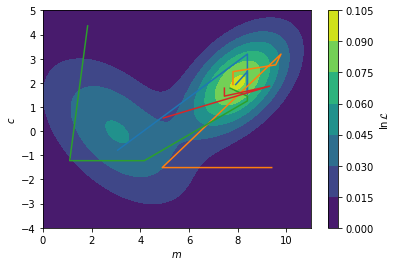
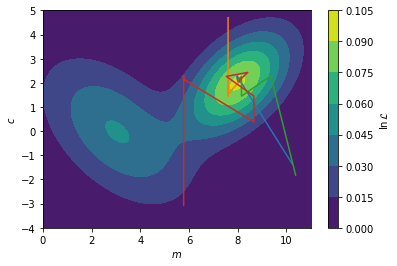
deploy: 67f193cb98d82815b8bbf6e6ed65cf09af53e6c0

diff --git a/searchindex.js b/searchindex.js
@@ -1,1 +1,1 @@
-Search.setIndex({docnames:["1_the_fourier_transform/an_introduction_to_fourier_transforms","1_the_fourier_transform/fourier_transforms_for_reflectometry_analysis","2_model_dependent_analysis/what_is_model_dependent_analysis","3_reflectometry_slab_models/how_we_calculate_the_reflectivity_of_a_slab_model","3_reflectometry_slab_models/roughness_and_microslicing","3_reflectometry_slab_models/the_slab_model","4_model_reparameterisation/a_case_for_model_reparameterisation","4_model_reparameterisation/niti_multilayer_example","4_model_reparameterisation/phospholipid_monolayer_example","5_fitting_processes_and_problems/how_do_we_maximise_the_likelihood","5_fitting_processes_and_problems/how_to_leverage_our_prior_knowledge","5_fitting_processes_and_problems/what_is_the_likelihood","intro"],envversion:{"sphinx.domains.c":2,"sphinx.domains.changeset":1,"sphinx.domains.citation":1,"sphinx.domains.cpp":4,"sphinx.domains.index":1,"sphinx.domains.javascript":2,"sphinx.domains.math":2,"sphinx.domains.python":3,"sphinx.domains.rst":2,"sphinx.domains.std":2,"sphinx.ext.intersphinx":1,"sphinxcontrib.bibtex":9,sphinx:56},filenames:["1_the_fourier_transform/an_introduction_to_fourier_transforms.md","1_the_fourier_transform/fourier_transforms_for_reflectometry_analysis.ipynb","2_model_dependent_analysis/what_is_model_dependent_analysis.md","3_reflectometry_slab_models/how_we_calculate_the_reflectivity_of_a_slab_model.ipynb","3_reflectometry_slab_models/roughness_and_microslicing.ipynb","3_reflectometry_slab_models/the_slab_model.md","4_model_reparameterisation/a_case_for_model_reparameterisation.md","4_model_reparameterisation/niti_multilayer_example.ipynb","4_model_reparameterisation/phospholipid_monolayer_example.ipynb","5_fitting_processes_and_problems/how_do_we_maximise_the_likelihood.ipynb","5_fitting_processes_and_problems/how_to_leverage_our_prior_knowledge.md","5_fitting_processes_and_problems/what_is_the_likelihood.ipynb","intro.md"],objects:{},objnames:{},objtypes:{},terms:{"0":[1,3,4,8,9,10,11,12],"000":9,"00039":12,"001":[1,3,4],"00260":12,"003":12,"0053":12,"007":12,"012":12,"01980001503076100":12,"02":12,"022":[7,12],"02614057":9,"0294":12,"03":12,"033":9,"04493869":9,"0469":12,"04893":12,"0496667614679125":11,"06":[4,7],"07":12,"074":1,"074e":[1,4],"078":12,"092":9,"0j":[3,4],"1":[0,1,3,4,7,8,9,10,11,12],"10":[1,4,7,9,11,12],"1000":[1,3,8,9,11],"1008202821328":12,"1016":12,"1023":12,"1039":12,"104":1,"1051":12,"107":12,"108":12,"1098":12,"11":[9,12],"1103":12,"1107":12,"1119":12,"1198":12,"12":[4,11,12],"1204":12,"14":4,"15":[8,12],"155":12,"16":[1,3],"167":9,"17":4,"1761":12,"1763":12,"18":[8,12],"186":1,"186e":[1,3,4],"19":[8,9,12],"193":12,"1948":12,"194812030504":12,"1954":12,"197":12,"1980":12,"1997":12,"1998":12,"1999":12,"1e":4,"1f77b4":11,"1j":[1,3],"2":[1,2,3,4,7,9,11,12],"20":[1,3,4],"200":[1,3,4,12],"2005":12,"2006":12,"2007":12,"2010":12,"2011":12,"2018":12,"2019":12,"2021":12,"20384101638663543":11,"204":12,"21":12,"23":7,"248":12,"25e":4,"265":8,"265n_c":8,"2827":12,"2848":12,"297":12,"2k_nk_":4,"3":[1,3,4,5,7,9,11,12],"300":[1,3],"311":12,"3254017":12,"33":12,"338":12,"339":12,"341":12,"342":12,"357":12,"359":12,"369":12,"370":12,"3blue1brown":0,"3e":7,"4":[1,3,4,5,7,9,11,12],"40":12,"41":12,"417":7,"417e":7,"418":12,"42":[11,12],"4245e":4,"434":12,"438":7,"44":12,"4526":12,"45667815":9,"47":[7,12],"471":12,"47913284":9,"5":[1,3,4,8,9,12],"50":4,"500":[1,3,4],"504":12,"51":7,"52":12,"520":12,"53":12,"531":12,"54":12,"58":7,"59":12,"596":12,"5q":3,"6":[1,3,4,7,9,12],"6133":12,"6141":12,"648":12,"649":12,"69":7,"7":[4,8,9,11],"761":12,"779":12,"78":12,"8":[4,7,9,11],"856832":12,"867":7,"87":12,"871":1,"871e":[3,4],"9":[4,7,12],"90":8,"908":7,"91":7,"922868":12,"95":12,"951e":7,"978":12,"98":[1,12],"99":12,"9957561":9,"99615666":9,"99998503":9,"99999727":9,"\u00e0":12,"\u00e5":[0,1,3,4,7,8],"\u00e8":12,"\u00e9":12,"\u00f6":12,"\u00fc":12,"abel\u00e8":[3,4],"abstract":7,"br\u00f6hl":12,"case":[5,10],"do":[1,2,12],"float":[7,9,11],"function":[1,2,3,4,5,8,9,11],"import":[1,2,3,4,5,6,7,8,9,11],"int":1,"new":12,"return":[1,3,7,9,11],"switch":12,"true":[6,9],"try":9,"while":[6,7],A:[1,2,4,5,7,8,9,12],As:[5,8],Be:9,By:2,For:[1,7,8,11,12],If:[1,2,9,10,11,12],In:[1,5,6,8,9,10,12],It:[2,4,5,8,9,10,12],No:4,One:8,The:[0,2,3,4,6,7,8,9,11,12],Then:[1,2,3],There:[4,9],These:[1,4,9],To:[1,4,6],_:[1,3],ab:[1,3],abel:[3,4,12],abeles48:[3,12],abeles_with_rough:4,abl:4,about:[6,8,9,10],abov:[1,2,4,7,9,11],abscissa:11,absolut:9,academ:12,accept:[1,10],account:[4,12],accur:[2,4,6],acf2:1,acf:1,achiev:[4,8,10],across:11,act:8,action:1,ad:8,adapt:4,add:8,add_patch:4,addit:[1,6,8],addition:[2,3,4,6,7,9],admittedli:4,advanc:12,advis:12,affect:8,after:[1,9,12],again:[1,4],against:5,agnet:12,agre:11,agreement:[2,9,11],aid:3,aim:[9,11,12],air:[1,4,8,12],al:6,algorithm:[2,9,10,12],all:[0,3,9,10],allow:[6,7,8,9],alon:9,alonso:12,alpha:11,alreadi:[2,10,12],also:[4,7,8],although:1,am:12,amphiphil:8,an:[2,4,5,6,9,10,12],analog:[0,9,11],analys:[9,12],analysi:[3,5,7,8,9,10,11,12],analyt:2,andbook:12,andrew:12,angstrom:7,ani:[4,11,12],ann:12,anomagnet:12,anoth:1,anphi:12,apm:8,append:9,appl:12,appli:[1,2,4,6,8,9,12],applic:[3,9,12],approach:[1,2,3,4,5,6,7,8,9,12],approx:1,approxim:[3,12],ar:[0,1,2,3,4,5,6,7,8,9,10,11,12],area:6,argmax:9,argsort:9,arnold:12,around:4,arrai:[1,3,4,7,9],artefact:4,artifici:12,assembl:8,assess:9,assign:7,associ:[10,11,12],assum:[8,12],assumpt:[2,6,7,8],ateri:12,atom:[7,8],attach:8,attent:12,autocorrel:1,avail:1,avogadro:7,awar:[2,9],ax:[4,11],axhlin:1,b:[3,7,12],b_:[3,7],b_i:[7,8],b_ni:7,b_ti:7,back:9,bar:[3,11],base:[2,3,7],basic:12,bay:[10,12],bayesian:[10,12],becom:[1,9],been:[1,3,4,7,8,12],befor:[0,4,5,12],begin:3,being:[2,4,11],belief:10,believ:2,below:[0,1,3,4,5,7,8,9,11],benefit:8,berk:12,best:[8,9,11],beta:[1,3,4,7,8],beta_0:3,beta_1:5,beta_2:5,beta_:[1,7,8],beta_i:8,beta_microsl:4,beta_n:3,beta_ni:7,beta_ti:7,between:[0,1,2,3,4,5,9,11],bia:2,bias:10,bigg:[1,11],biolog:[9,12],bj:12,bjorck11:[9,12],black:[1,9],block:12,blue:[1,9,11],bmatrix:3,book:[1,10,12],born:[3,12],borrow:1,both:8,bound:[7,10],bowen:12,bp63:[10,12],bring:3,broad:[2,11],broadli:2,brought:3,bsd:3,c9cp00203k:12,c:[1,9,11,12],calcul:[1,2,4,5,8,11],call:5,callback:9,campbel:12,can:[1,2,3,4,5,6,7,8,9,10,11,12],cannot:[4,11],caract:12,carbon:8,carefulli:9,caruana:12,cation:12,catter:12,caus:8,caution:6,cdot:7,centr:12,chanc:12,chang:[1,2,9],character:12,characterist:3,characteristic_matric:3,chem:12,chemic:[5,6,12],chemistri:2,chi:11,circ:8,clark:12,clear:[2,4,5,9],clearer:3,clearli:4,click:12,clifton:12,close:3,cm:7,coci:12,code:[4,7,9,12],collect:12,colloid:12,color:11,colorbar:9,comfort:12,common:[2,4,5,7,8,9],commonli:[6,9,11],companion:12,compar:[2,3,4,6,11],comparison:5,complementari:6,complet:[2,9],complex:[3,8,9,12],composit:8,comput:12,computation:9,concept:6,conclus:9,condens:12,conj:3,conjug:3,consid:[1,2,3,4,5,7,8,9,10,11],consider:9,consist:[5,7,8],constant:[2,7,10],constrain:[7,8],constraint:[6,8],construct:[2,3,5,10],consult:8,content:12,context:2,continu:12,contourf:9,contrast:9,convers:6,could:[5,10],coupl:9,cours:12,cover:[2,12],creat:4,croce:[4,12],crystallogr:12,crystallographi:1,css:[8,12],cubitt:12,curr:12,current:[9,12],current_theta:9,curve_fit:11,d:[1,3,4,11,12],d_1:5,d_2:5,d_h:8,d_i:8,d_microsl:4,d_n:3,d_t:8,dan:12,data:[1,2,3,4,5,6,7,8,9,10,11,12],databas:7,datapoint:11,dataset:[9,11],de:12,decomposit:0,deep:12,def:[1,3,7,9,11],defin:[1,2,5,6,7,8,11],deg2rad:8,delta:1,denot:1,densiti:[1,3,4,5,6,8],depend:[5,7,8,9,10,11,12],deposit:7,deriv:[1,5],descent:9,describ:[2,3,4,5,6,9,10,11],descript:[1,6,8],design:10,desir:[7,9],deslatt:12,destruct:5,detail:[0,1,2],detector:5,determin:[3,9,12],develop:12,deviat:[3,11],devind:[1,10,12],diatom:2,diff:[1,3],differ:[1,4,5],differenti:[9,10,12],differential_evolut:9,difficult:8,dimens:[1,5],dimension:9,dioxid:[1,4],directli:7,discoveri:9,discuss:[1,4,5,11],disposit:7,distribut:[9,11],divid:1,docstr:3,doctrin:12,doe:[2,3,4],doi:12,domain:0,done:11,dot:11,downhil:9,dppc:8,dr:[1,10,12],draw:[9,12],dtype:3,du:12,due:[1,2],dura:12,dvanc:12,e:[5,12],each:[3,4,5,7,8],easili:[7,9],edgecolor:4,edit:12,editor:12,edler:12,effect:[1,4,9,12],effici:12,eflect:12,elast:0,element:[7,11],elementari:[1,12],eleph:12,els:2,enabl:[4,10],encount:[2,9],end:3,enrol:12,ensur:[2,9],entir:2,enumer:11,enzym:2,equat:[1,2],error:[4,11],errorbar:11,essai:12,essenti:0,estim:1,et:6,european:12,eutect:12,eutron:12,evalu:[7,12],eventu:9,ever:2,everi:8,evolut:[9,10,12],evolutionari:9,exampl:[2,4,5,6,9,10],exhaust:12,exist:[4,9],exp:[1,3,4],expect:[2,10],experi:[2,12],experiment:[2,5,6,11],explicitli:1,exploit:12,extend:8,extrem:8,f:[3,7,12],fact:10,factor:[3,11],fair:2,fals:4,familiar:[1,2,6],fantast:1,far:11,fashion:9,feder:12,feed:9,feedback:12,feel:12,fernandez:12,ff7f0e:11,field:[8,12],fig:[2,4,5,8,11],figsiz:[4,11],figur:[1,2,4,9,11,12],file:12,fill:4,fill_between:11,find:[1,2,4,7,8,9,10,11],first:[1,2,3,5,6,7,9,11,12],fit:[2,6,7,9,11],fitzsimmon:12,flat:[1,4],flavour:[6,9],flexion:12,flow:2,fm05:12,fm:7,focus:0,follow:[1,7,8,9,11,12],forc:2,form:[1,9],formal:[3,4],format:12,found:[1,3,4,7,8,9,10],four:12,fourier:[2,3,5,12],fourier_transform:1,frac:[1,3,4,7,8,10,11],fraction:8,free:[6,9,12],frensel:3,fresnel:[3,4],fresnel_reflect:3,from:[0,1,2,3,4,5,6,7,8,9,11,12],full:1,fulli:8,fundament:[0,5],further:[9,10],g:[7,12],garbag:2,gcm:7,gener:[2,9,12],genet:12,geometri:5,gerelli:12,get:[2,11,12],give:[0,3,6,12],given:[4,5,8,9,11],glob:12,global:[9,12],go:[3,5,9],good:11,gradient:11,gradient_callback:9,gradient_v:9,graphic:7,great:[0,10],greater:1,group:8,guess:9,guntherodt:12,h:12,ha:[1,4,7,8,12],hall:12,hand:4,hard:7,harder:9,have:[1,2,3,8,9,10,11,12],head:8,heavili:[8,11,12],heavisid:1,heinrich:12,helper:[4,9],henc:[0,11],henomena:12,here:[3,11,12],heurist:12,higher:8,hoogerheid:12,hopefulli:5,horizont:1,how:[2,5,6,8,11,12],howard:12,howev:[1,2,4,5,6,7,9,11],hydrocarbon:8,hydrophil:8,hydrophob:[8,12],i:[1,3,5,7,8,11],identifi:4,ignor:4,impact:[0,4],implement:[3,4,9],impli:4,impos:10,improv:2,inaccur:4,incid:[1,5],includ:[0,2,3,7,8,12],incorrectli:4,increas:[4,9,11],independ:2,indic:[1,9,11],individu:[3,7],induc:12,influenc:4,inform:[1,6,12],infti:1,inher:2,initi:9,input:3,insect:9,insight:[2,12],insolubl:8,inspir:9,instead:[1,3,7,9,10],instrument:8,integr:[10,12],intens:[1,9],interact:[0,1,3,4,7,8,9,11,12],intercal:8,intercept:11,interest:[0,2,12],interfac:[3,4,5,8,12],interfer:5,interpret:[2,4],interrog:[4,9],introduc:[2,4,5,6,8,10,12],introduct:10,inv_fourier_transform:1,invers:[1,12],investig:[1,2,6,9],involv:[5,7],isbn:12,isotop:9,issu:1,its:7,j:12,jackson:12,jci:12,john:[6,12],jpsc21:[6,12],jupyt:12,jupyterhub:12,k0:3,k:[1,3,9,12],k_0:3,k_:[3,4],k_n:[3,4],karin:12,khairi:12,kienzl:12,kinet:2,kn:3,knowledg:12,known:[2,4,8],kronm:12,l:[9,10,11,12],la:12,label:[1,3,4,9],lak19:12,lakei:12,languag:[6,12],larg:[1,12],later:[5,7],latter:6,launch:12,lawrenc:12,layer:[3,4,5,7,8],le:12,lead:[0,2,4,5],leak:4,learn:[1,3,4,7,8,9,11,12],lectromagn:12,lectur:12,left:4,legend:[1,3,4],length:[1,3,4,5,6,8],less:5,let:[0,1,10],licens:3,light:12,like:[2,4,8,10],likelihood:10,limit:[1,2,7,8],line:[1,9,11],linearli:11,link:12,linspac:[1,3,4,8,9,11],lipid:12,liquid:12,list:12,literatur:8,ller:12,ln:[9,11],loadtxt:11,local:9,log:[1,3,4,11,12],logic:[2,10,12],logpdf:9,lond:12,look:[0,1,2,3,6,9,10,11],loss:1,lost:5,lovel:12,low:3,lr99:[2,12],ls:11,lw:11,m:[3,9,11,12],m_:[3,7],m_w:7,m_w_ni:7,m_w_ti:7,made:[2,6,7],magnet:12,magnitud:1,mai:[1,2,6,7,11,12],majkrzak:12,major:[7,11],make:[2,3,6,8,12],manag:12,mani:9,marker:11,mass:6,match:1,materi:[1,3,4,5,7,12],mathcal:[9,10,11],mathemat:12,mathit:[1,3],mathrm:[1,3,7,8,11],matnei:12,matplotlib:[1,3,4,8,9,11],matric:3,matrix:[3,4],matter:[7,12],matyszewska:12,max:[1,3,11],maxima:9,maximilian:12,maximis:[10,11],maximum:[8,9,10,11],mayer:12,mbd:[1,12],mccluskei:12,mead:9,mean:[1,4,7,8,9,11],measur:[0,1,2,5,6,10,11],media:3,member:9,membran:12,menten:2,mention:8,merit:2,meshgrid:9,method:[3,4,12],methodolog:[1,2,4,9,12],metric:[9,11],micel:12,micha:2,might:2,milieux:12,minim:9,minimis:[9,11],minimum:[9,10],minut:12,mkh10:[2,12],modal:9,model:[1,4,7,8,9,10,11,12],modifi:[3,4,12],modul:[4,9],mol:7,molecul:[2,6],molecular:7,monolay:12,more:[0,2,4,6,7,8,9,10,11],most:[3,4,5,9],move:9,movement:12,msfe:[8,12],much:[3,5],multi:9,multivariate_norm:9,must:[2,4,8],mv1:9,mv2:9,mv:9,n:[3,4,7,8,11,12],n_:[3,11],n_a:7,n_c:8,nanostructur:12,natur:[6,8],navig:12,nazaruk:12,ndarrai:[1,3,7,9,11],nearbi:9,necessari:[3,4,9],need:2,neg:9,nelder:9,nelson:12,neutron:[0,1,2,3,5,6,7,9],nevot:4,nevotc80:[4,12],newaxi:[1,3],ni:7,nickel:[4,7],nll:9,nois:1,noisi:1,non:9,none:9,norm:11,normal:[1,3,9,11],normal_wavevector:3,normalis:[1,11],note:[1,2,8,9],notebook:[1,3,4,7,8,9,11,12],notic:[4,11],now:[0,3,4,8,9,11],np19:[3,12],np:[1,3,4,7,8,9,11],nuanc:5,number:[1,6,7,8,9,11],number_lay:3,number_q:3,numpi:[1,3,4,7,8,9,11],o:11,observ:[1,4,5,11],obtain:[1,4,7],obvious:5,offer:2,olar:12,onc:[9,12],ond:12,one:[8,9,10,11,12],ones:3,ones_lik:4,onli:[1,4,7,8,11],onlin:7,opin:12,opinion:12,optim:[9,11,12],optimis:[8,9],optimum:9,orang:[9,11],order:[5,9],org:[1,3,4,7,8,9,11,12],other:[8,11],our:[1,2,4,5,6,7,8,9,11],out:[2,10],outsid:10,over:12,overal:[3,9,11],overview:0,oxford:12,p0:3,p1:3,p:[10,11,12],packag:[3,7],page:12,pai:12,pan:[1,3,4,7,8,9,11,12],panaccion:12,panosc:12,paper:12,par54:[3,12],par:12,param:[1,3,7,11],paramet:[3,4,5,6,7,8,9,10,11,12],parameteris:[6,8,12],pari:12,parker:12,parkin:12,parratt:[3,12],part:[1,11],particl:9,particular:[5,6],particularli:12,patch:4,path:[5,9,12],pattern:[0,5],pdf:[9,11],peak:1,pedulla:12,per:6,perfect:4,perfectli:4,perform:[0,1,11],perpendicular:1,pg:1,phase:[1,2,3,12],phase_factor:3,phi:3,phi_0:3,phi_i:8,phi_n:3,phi_t:3,phil:12,phospholipid:12,phy:12,physic:[1,2,5,6,8,12],physica:12,physrev:12,pi:[1,3,11],pictori:8,piec:[1,4,7],pint:7,place:10,plane:[1,8],pleas:12,plot:[1,3,4,8,9,11,12],plt:[1,3,4,8,9,11],point:11,polar:12,polissag:12,popul:9,popular:2,posit:9,possibl:[1,2,4,5,8,9,11],posterior:10,power:12,prepar:[2,7],prescott:12,present:[1,2,4],press:12,pressur:8,preston:12,previou:[2,6],previous:[3,4,6,8],price:12,print:[7,9],probabl:[10,11],probe:[2,9,10],problem:[1,2,9,12],procedur:12,process:[2,6,7,9,12],prod:3,produc:[1,2,12],product:3,profil:[1,4,5],program:12,project:12,propag:[3,5,12],propos:2,propto:10,py:[4,9],pyplot:[1,3,4,8,9,11],python:[3,12],q2:1,q:[0,1,2,3,4,12],q_:1,q_x:1,q_y:1,qualiti:9,quantifi:9,quelqu:12,question:12,quick:1,r2:1,r:[1,3,4,5,8,12],r_:[3,4],r_abel:3,r_fourier:3,r_microsl:4,r_nevot_croc:4,r_with_rough:4,radiat:[0,1],rai:[1,12],random:9,rang:[1,2,3,4,9,12],rasant:12,rather:[2,6,7],ratio:5,ration:9,rayon:12,rck:12,re:9,reach:[7,9],read:12,reader:12,real:[3,4,5],realli:2,reason:7,recent:[8,12],recogn:12,rectangl:4,recurs:3,red:4,reduc:[6,8],refin:5,reflect:[1,2,4,5,12],reflectometri:[0,2,3,4,5,6,7,8,9,11],refnx:[3,12],refract:[3,5],region:[1,4,8,9],relat:7,relationship:1,relev:[8,12],reli:3,render:1,reparameteris:[5,7,8,11,12],repeat:7,repres:[2,11],reproduc:3,request:12,requir:[6,12],res1:9,res2:9,resolut:[1,2],respect:1,result:[1,2,3,4,5,9],resultant_matrix:3,retriv:1,rev:12,review:12,rewrit:1,rho:[3,7],rho_:7,rho_ni:7,rho_ti:7,rho_to_beta:7,richardson:12,right:4,risat:12,robust:9,room:7,root:9,rout:9,rphysap:12,rsta:12,rstl:12,rule:4,run:12,s0021889811041446:12,s0921:12,s1359:12,s1600576718017016:12,s1600576718017296:12,s:[0,1,7,8,9,10,12],saaka:12,sai:1,same:[4,5,7,11],sampl:[0,1,2,4,7],sanchez:12,sansom:12,satija:12,scale:[1,12],scatter:[0,1,3,4,5,6,8,12],sche:12,sci:12,scienc:[2,12],scipi:[7,9,11],search:12,section:[2,5,6,9],see:[4,5,9],seen:[10,11],select:11,self:8,semi:9,sensit:1,seri:[3,4,5],set:7,set_xlabel:[4,11],set_xlim:4,set_ylabel:[4,11],set_ylim:4,shao:12,shape:[3,9],shortest:4,should:[1,4,6,8,9,11,12],show:[1,2,3,4,5,7,8,9,11,12],shown:[1,2,3,4,5,8,9,11],si:1,sigma2:4,sigma3:4,sigma5:4,sigma7:4,sigma:[4,11],sigma_:4,sigma_n:11,silic:12,silicon:[1,4,7],similar:[2,3],simpl:[1,2,5,6,7,8,9,10,12],simpli:9,simul:[2,4,5,6,7],sin:8,singl:[8,11],sio_2:1,sit:[8,11],siv11:[1,12],sivia:[1,10,12],sj06:[10,12],skill:12,skip:12,sko19:12,skoda:12,slab:[4,6,8,12],sld_with_rough:4,smooth:[1,4],so:[11,12],soc:12,soft:12,softwar:12,solid:12,solubl:8,solut:9,solv:12,solvat:8,solvent:[8,12],some:[0,1,2,4,5,8,9,10,11,12],someth:[0,2],son:12,sourc:12,sp97:[9,12],space:[0,9,12],spallat:12,speak:8,specif:[6,8],spectra:2,specular:12,spintron:12,springer:12,sqrt:3,squar:[1,3],sratifi:12,staff:8,standard:11,start:[9,10],stat:[9,11],state:10,step:[4,9,10],stephen:12,still:[4,7],storn:12,straight_lin:11,straightforward:6,strand:8,stratifi:3,structur:[1,2,6,7,12],studi:[1,2,8,12],subject:12,subplot:[4,11],suggest:[10,12],sum:[1,3,7],sum_:[7,8,11],summat:11,superphas:3,sur:12,sure:12,surfac:[1,3,7,12],surfact:12,swarm:9,synthesi:2,system:[1,2,4,5,6,7,8,9,12],t:[9,12],t_t:8,tackl:2,tail:8,take:[0,2,9,10,12],taken:[3,5],tan80:[8,12],tanford:[8,12],techniqu:[6,12],temperatur:7,tend:1,term:[5,7,8,11],textquotesingl:12,than:[1,4,7,9],thank:12,thei:[9,12],them:[4,11],theorem:10,theori:[1,12],therefor:[2,4,6,7,9,10],theta:[8,9,10,11],thi:[0,1,2,3,4,5,6,7,8,9,10,11,12],thick:[1,3,4,5,8],thin:4,thing:2,think:6,those:10,thought:1,three:[2,7],through:[3,4,5],thumb:4,tight_layout:11,time:[0,1,4,7,12],tiqu:12,titanium:7,tkh:[9,12],togeth:3,tool:[1,2,6],top4:9,top:1,toperverg:12,total:12,touch:12,toward:[1,9,12],tradit:[7,8,12],tran:12,transform:[2,3,5,12],translat:6,transmitt:3,treec:12,trigonometri:8,tude:12,turn:9,tutori:[10,12],two:[2,3,4,5,6,8,9],txt:11,typic:[2,4,5,6,7,8,9,11],tz07:12,u:7,uantum:12,umbrellaid:12,uncertainti:11,unclear:7,under:[1,3,8],underli:[2,11],understand:[2,3,5,6,10,12],unintuit:6,uniqu:9,unit:0,unitregistri:7,univers:12,unlik:8,unphys:[1,4],until:7,up:[9,12],uphil:9,url:12,us:[2,3,4,6,7,8,9,10,11,12],useless:1,user:[1,12],utilis:1,valu:[1,3,7,8,9,10,11],vari:[7,9],variabl:7,varieti:9,vector:3,veri:[4,8,9],verr:12,version:1,via:[1,3,4,7,8,9,11],vibrat:2,video:0,visit:12,visualis:[1,4],vot:12,w:[7,12],wa:[1,2,5,10,12],wai:[2,8],wait:12,want:12,watch:0,water:[8,12],wave:[3,5],wavevector:[1,3],wc19:12,we:[0,1,2,4,5,6,7,8,10,11,12],weight:7,welbourn:12,well:2,were:10,what:12,when:[3,5,8,9,10,11],where:[1,2,3,4,5,7,8,9,10,11],which:[0,1,3,4,7,8,9,10,11],width:4,wiesendang:12,wilei:12,within:10,without:[1,2,4],word:2,work:[4,6,12],workflow:2,wormington:12,would:[2,4,5,8,10],wpmb99:[9,12],written:[1,11],wwe:8,x:[1,9,11,12],x_n:11,xlabel:[1,3,4,8,9],xy:8,y:[9,10,11,12],y_fit:11,y_n:11,ylabel:[1,3,4,8,9],you:[1,2,10,11,12],your:[8,12],yourself:12,yscale:[1,3,4],yy:11,z:[1,3,4,5],zabel:12,zero:3,zeros_lik:[1,3],zhou:12,zorder:11,zq:1,ztbt07:12},titles:["An introduction to Fourier transforms","Fourier transforms for reflectometry analysis","What is model-dependent analysis?","How we calculate the reflectivity of a slab model","Roughness and microslicing","The \u201cslab model\u201d","A case for model reparameterisation","NiTi multilayer example","Phospholipid monolayer example","How do we maximise the likelihood?","How to leverage our prior knowledge?","What is the likelihood?","Introduction to neutron reflectometry fitting"],titleterms:{"case":6,"do":9,A:[6,10],The:[1,5],algorithm:3,an:[0,1],analysi:[1,2],angl:8,approxim:1,area:8,bibliographi:12,born:1,calcul:3,chain:8,densiti:7,depend:2,exampl:[1,7,8],fit:12,fourier:[0,1],gradient:9,how:[3,9,10],interfac:1,interfaci:4,introduct:[0,12],knowledg:10,layer:1,length:7,leverag:10,likelihood:[9,11],mass:7,maximis:9,method:9,microsl:4,model:[2,3,5,6],molecul:8,monolay:8,multilay:7,neutron:12,niti:7,our:10,oxid:1,per:8,phospholipid:8,prior:10,problem:4,reflect:3,reflectometri:[1,12],reparameteris:6,rough:4,scatter:7,singl:1,slab:[3,5],specular:1,stochast:9,tilt:8,transform:[0,1],uniform:10,us:1,we:[3,9],what:[0,2,11]}})
+Search.setIndex({docnames:["1_the_fourier_transform/an_introduction_to_fourier_transforms","1_the_fourier_transform/fourier_transforms_for_reflectometry_analysis","2_model_dependent_analysis/what_is_model_dependent_analysis","3_reflectometry_slab_models/how_we_calculate_the_reflectivity_of_a_slab_model","3_reflectometry_slab_models/roughness_and_microslicing","3_reflectometry_slab_models/the_slab_model","4_model_reparameterisation/a_case_for_model_reparameterisation","4_model_reparameterisation/niti_multilayer_example","4_model_reparameterisation/phospholipid_monolayer_example","5_fitting_processes_and_problems/how_do_we_maximise_the_likelihood","5_fitting_processes_and_problems/how_to_leverage_our_prior_knowledge","5_fitting_processes_and_problems/what_is_the_likelihood","intro"],envversion:{"sphinx.domains.c":2,"sphinx.domains.changeset":1,"sphinx.domains.citation":1,"sphinx.domains.cpp":4,"sphinx.domains.index":1,"sphinx.domains.javascript":2,"sphinx.domains.math":2,"sphinx.domains.python":3,"sphinx.domains.rst":2,"sphinx.domains.std":2,"sphinx.ext.intersphinx":1,"sphinxcontrib.bibtex":9,sphinx:56},filenames:["1_the_fourier_transform/an_introduction_to_fourier_transforms.md","1_the_fourier_transform/fourier_transforms_for_reflectometry_analysis.ipynb","2_model_dependent_analysis/what_is_model_dependent_analysis.md","3_reflectometry_slab_models/how_we_calculate_the_reflectivity_of_a_slab_model.ipynb","3_reflectometry_slab_models/roughness_and_microslicing.ipynb","3_reflectometry_slab_models/the_slab_model.md","4_model_reparameterisation/a_case_for_model_reparameterisation.md","4_model_reparameterisation/niti_multilayer_example.ipynb","4_model_reparameterisation/phospholipid_monolayer_example.ipynb","5_fitting_processes_and_problems/how_do_we_maximise_the_likelihood.ipynb","5_fitting_processes_and_problems/how_to_leverage_our_prior_knowledge.md","5_fitting_processes_and_problems/what_is_the_likelihood.ipynb","intro.md"],objects:{},objnames:{},objtypes:{},terms:{"0":[1,3,4,8,9,10,11,12],"000":9,"00039":12,"001":[1,3,4],"00260":12,"003":12,"0053":12,"007":12,"012":12,"01980001503076100":12,"02":12,"022":[7,12],"02614057":9,"0294":12,"03":12,"033":9,"04493869":9,"0469":12,"04893":12,"0496667614679125":11,"06":[4,7],"07":12,"074":1,"074e":[1,4],"078":12,"092":9,"0j":[3,4],"1":[0,1,3,4,7,8,9,10,11,12],"10":[1,4,7,9,11,12],"1000":[1,3,8,9,11],"1008202821328":12,"1016":12,"1023":12,"1039":12,"104":1,"1051":12,"107":12,"108":12,"1098":12,"11":[9,12],"1103":12,"1107":12,"1119":12,"1198":12,"12":[4,11,12],"1204":12,"14":4,"15":[8,12],"155":12,"16":[1,3],"167":9,"17":4,"1761":12,"1763":12,"18":[8,12],"186":1,"186e":[1,3,4],"19":[8,9,12],"193":12,"1948":12,"194812030504":12,"1954":12,"197":12,"1980":12,"1997":12,"1998":12,"1999":12,"1e":4,"1f77b4":11,"1j":[1,3],"2":[1,2,3,4,7,9,11,12],"20":[1,3,4],"200":[1,3,4,12],"2005":12,"2006":12,"2007":12,"2010":12,"2011":12,"2018":12,"2019":12,"2021":12,"20384101638663543":11,"204":12,"21":12,"23":7,"248":12,"25e":4,"265":8,"265n_c":8,"2827":12,"2848":12,"297":12,"2k_nk_":4,"3":[1,3,4,5,7,9,11,12],"300":[1,3],"311":12,"3254017":12,"33":12,"338":12,"339":12,"341":12,"342":12,"357":12,"359":12,"369":12,"370":12,"37833167":9,"3blue1brown":0,"3e":7,"4":[1,3,4,5,7,9,11,12],"40":12,"41":12,"417":7,"417e":7,"418":12,"42":[11,12],"4245e":4,"434":12,"438":7,"44":12,"4526":12,"47":[7,12],"471":12,"5":[1,3,4,8,9,12],"50":4,"500":[1,3,4],"504":12,"51":7,"52":12,"520":12,"53":12,"531":12,"53647586":9,"54":12,"58":7,"59":12,"596":12,"5q":3,"6":[1,3,4,7,9,12],"6133":12,"6141":12,"648":12,"649":12,"69":7,"7":[4,8,9,11],"761":12,"779":12,"78":12,"8":[4,7,9,11],"856832":12,"867":7,"87":12,"871":1,"871e":[3,4],"9":[4,7,12],"90":8,"908":7,"91":7,"922868":12,"95":12,"951e":7,"978":12,"98":[1,12],"99":12,"9957561":9,"99615666":9,"99998503":9,"99999727":9,"\u00e0":12,"\u00e5":[0,1,3,4,7,8],"\u00e8":12,"\u00e9":12,"\u00f6":12,"\u00fc":12,"abel\u00e8":[3,4],"abstract":7,"br\u00f6hl":12,"case":[5,10],"do":[1,2,12],"float":[7,9,11],"function":[1,2,3,4,5,8,9,11],"import":[1,2,3,4,5,6,7,8,9,11],"int":1,"new":12,"return":[1,3,7,9,11],"switch":12,"true":[6,9],"try":9,"while":[6,7],A:[1,2,4,5,7,8,9,12],As:[5,8],Be:9,By:2,For:[1,7,8,11,12],If:[1,2,9,10,11,12],In:[1,5,6,8,9,10,12],It:[2,4,5,8,9,10,12],No:4,One:8,The:[0,2,3,4,6,7,8,9,11,12],Then:[1,2,3],There:[4,9],These:[1,4,9],To:[1,4,6],_:[1,3],ab:[1,3],abel:[3,4,12],abeles48:[3,12],abeles_with_rough:4,abl:4,about:[6,8,9,10],abov:[1,2,4,7,9,11],abscissa:11,absolut:9,academ:12,accept:[1,10],account:[4,12],accur:[2,4,6],acf2:1,acf:1,achiev:[4,8,10],across:11,act:8,action:1,ad:8,adapt:4,add:8,add_patch:4,addit:[1,6,8],addition:[2,3,4,6,7,9],admittedli:4,advanc:12,advis:12,affect:8,after:[1,9,12],again:[1,4],against:5,agnet:12,agre:11,agreement:[2,9,11],aid:3,aim:[9,11,12],air:[1,4,8,12],al:6,algorithm:[2,9,10,12],all:[0,3,9,10],allow:[6,7,8,9],alon:9,alonso:12,alpha:11,alreadi:[2,10,12],also:[4,7,8],although:1,am:12,amphiphil:8,an:[2,4,5,6,9,10,12],analog:[0,9,11],analys:[9,12],analysi:[3,5,7,8,9,10,11,12],analyt:2,andbook:12,andrew:12,angstrom:7,ani:[4,11,12],ann:12,anomagnet:12,anoth:1,anphi:12,apm:8,append:9,appl:12,appli:[1,2,4,6,8,9,12],applic:[3,9,12],approach:[1,2,3,4,5,6,7,8,9,12],approx:1,approxim:[3,12],ar:[0,1,2,3,4,5,6,7,8,9,10,11,12],area:6,argmax:9,argsort:9,arnold:12,around:4,arrai:[1,3,4,7,9],artefact:4,artifici:12,assembl:8,assess:9,assign:7,associ:[10,11,12],assum:[8,12],assumpt:[2,6,7,8],ateri:12,atom:[7,8],attach:8,attent:12,autocorrel:1,avail:1,avogadro:7,awar:[2,9],ax:[4,11],axhlin:1,b:[3,7,12],b_:[3,7],b_i:[7,8],b_ni:7,b_ti:7,back:9,bar:[3,11],base:[2,3,7],basic:12,bay:[10,12],bayesian:[10,12],becom:[1,9],been:[1,3,4,7,8,12],befor:[0,4,5,12],begin:3,being:[2,4,11],belief:10,believ:2,below:[0,1,3,4,5,7,8,9,11],benefit:8,berk:12,best:[8,9,11],beta:[1,3,4,7,8],beta_0:3,beta_1:5,beta_2:5,beta_:[1,7,8],beta_i:8,beta_microsl:4,beta_n:3,beta_ni:7,beta_ti:7,between:[0,1,2,3,4,5,9,11],bia:2,bias:10,bigg:[1,11],biolog:[9,12],bj:12,bjorck11:[9,12],black:[1,9],block:12,blue:[1,9,11],bmatrix:3,book:[1,10,12],born:[3,12],borrow:1,both:8,bound:[7,10],bowen:12,bp63:[10,12],bring:3,broad:[2,11],broadli:2,brought:3,bsd:3,c9cp00203k:12,c:[1,9,11,12],calcul:[1,2,4,5,8,11],call:5,callback:9,campbel:12,can:[1,2,3,4,5,6,7,8,9,10,11,12],cannot:[4,11],caract:12,carbon:8,carefulli:9,caruana:12,cation:12,catter:12,caus:8,caution:6,cdot:7,centr:12,chanc:12,chang:[1,2,9],character:12,characterist:3,characteristic_matric:3,chem:12,chemic:[5,6,12],chemistri:2,chi:11,circ:8,clark:12,clear:[2,4,5,9],clearer:3,clearli:4,click:12,clifton:12,close:3,cm:7,coci:12,code:[4,7,9,12],collect:12,colloid:12,color:11,colorbar:9,comfort:12,common:[2,4,5,7,8,9],commonli:[6,9,11],companion:12,compar:[2,3,4,6,11],comparison:5,complementari:6,complet:[2,9],complex:[3,8,9,12],composit:8,comput:12,computation:9,concept:6,conclus:9,condens:12,conj:3,conjug:3,consid:[1,2,3,4,5,7,8,9,10,11],consider:9,consist:[5,7,8],constant:[2,7,10],constrain:[7,8],constraint:[6,8],construct:[2,3,5,10],consult:8,content:12,context:2,continu:12,contourf:9,contrast:9,convers:6,could:[5,10],coupl:9,cours:12,cover:[2,12],creat:4,croce:[4,12],crystallogr:12,crystallographi:1,css:[8,12],cubitt:12,curr:12,current:[9,12],current_theta:9,curve_fit:11,d:[1,3,4,11,12],d_1:5,d_2:5,d_h:8,d_i:8,d_microsl:4,d_n:3,d_t:8,dan:12,data:[1,2,3,4,5,6,7,8,9,10,11,12],databas:7,datapoint:11,dataset:[9,11],de:12,decomposit:0,deep:12,def:[1,3,7,9,11],defin:[1,2,5,6,7,8,11],deg2rad:8,delta:1,denot:1,densiti:[1,3,4,5,6,8],depend:[5,7,8,9,10,11,12],deposit:7,deriv:[1,5],descent:9,describ:[2,3,4,5,6,9,10,11],descript:[1,6,8],design:10,desir:[7,9],deslatt:12,destruct:5,detail:[0,1,2],detector:5,determin:[3,9,12],develop:12,deviat:[3,11],devind:[1,10,12],diatom:2,diff:[1,3],differ:[1,4,5],differenti:[9,10,12],differential_evolut:9,difficult:8,dimens:[1,5],dimension:9,dioxid:[1,4],directli:7,discoveri:9,discuss:[1,4,5,11],disposit:7,distribut:[9,11],divid:1,docstr:3,doctrin:12,doe:[2,3,4],doi:12,domain:0,done:11,dot:11,downhil:9,dppc:8,dr:[1,10,12],draw:[9,12],dtype:3,du:12,due:[1,2],dura:12,dvanc:12,e:[5,12],each:[3,4,5,7,8],easili:[7,9],edgecolor:4,edit:12,editor:12,edler:12,effect:[1,4,9,12],effici:12,eflect:12,elast:0,element:[7,11],elementari:[1,12],eleph:12,els:2,enabl:[4,10],encount:[2,9],end:3,enrol:12,ensur:[2,9],entir:2,enumer:11,enzym:2,equat:[1,2],error:[4,11],errorbar:11,essai:12,essenti:0,estim:1,et:6,european:12,eutect:12,eutron:12,evalu:[7,12],eventu:9,ever:2,everi:8,evolut:[9,10,12],evolutionari:9,exampl:[2,4,5,6,9,10],exhaust:12,exist:[4,9],exp:[1,3,4],expect:[2,10],experi:[2,12],experiment:[2,5,6,11],explicitli:1,exploit:12,extend:8,extrem:8,f:[3,7,12],fact:10,factor:[3,11],fair:2,fals:4,familiar:[1,2,6],fantast:1,far:11,fashion:9,feder:12,feed:9,feedback:12,feel:12,fernandez:12,ff7f0e:11,field:[8,12],fig:[2,4,5,8,11],figsiz:[4,11],figur:[1,2,4,9,11,12],file:12,fill:4,fill_between:11,find:[1,2,4,7,8,9,10,11],first:[1,2,3,5,6,7,9,11,12],fit:[2,6,7,9,11],fitzsimmon:12,flat:[1,4],flavour:[6,9],flexion:12,flow:2,fm05:12,fm:7,focus:0,follow:[1,7,8,9,11,12],forc:2,form:[1,9],formal:[3,4],format:12,found:[1,3,4,7,8,9,10],four:12,fourier:[2,3,5,12],fourier_transform:1,frac:[1,3,4,7,8,10,11],fraction:8,free:[6,9,12],frensel:3,fresnel:[3,4],fresnel_reflect:3,from:[0,1,2,3,4,5,6,7,8,9,11,12],full:1,fulli:8,fundament:[0,5],further:[9,10],g:[7,12],garbag:2,gcm:7,gener:[2,9,12],genet:12,geometri:5,gerelli:12,get:[2,11,12],give:[0,3,6,12],given:[4,5,8,9,11],glob:12,global:[9,12],go:[3,5,9],good:11,gradient:11,gradient_callback:9,gradient_v:9,graphic:7,great:[0,10],greater:1,group:8,guess:9,guntherodt:12,h:12,ha:[1,4,7,8,12],hall:12,hand:4,hard:7,harder:9,have:[1,2,3,8,9,10,11,12],head:8,heavili:[8,11,12],heavisid:1,heinrich:12,helper:[4,9],henc:[0,11],henomena:12,here:[3,11,12],heurist:12,higher:8,hoogerheid:12,hopefulli:5,horizont:1,how:[2,5,6,8,11,12],howard:12,howev:[1,2,4,5,6,7,9,11],hydrocarbon:8,hydrophil:8,hydrophob:[8,12],i:[1,3,5,7,8,11],identifi:4,ignor:4,impact:[0,4],implement:[3,4,9],impli:4,impos:10,improv:2,inaccur:4,incid:[1,5],includ:[0,2,3,7,8,12],incorrectli:4,increas:[4,9,11],independ:2,indic:[1,9,11],individu:[3,7],induc:12,influenc:4,inform:[1,6,12],infti:1,inher:2,initi:9,input:3,insect:9,insight:[2,12],insolubl:8,inspir:9,instead:[1,3,7,9,10],instrument:8,integr:[10,12],intens:[1,9],interact:[0,1,3,4,7,8,9,11,12],intercal:8,intercept:11,interest:[0,2,12],interfac:[3,4,5,8,12],interfer:5,interpret:[2,4],interrog:[4,9],introduc:[2,4,5,6,8,10,12],introduct:10,inv_fourier_transform:1,invers:[1,12],investig:[1,2,6,9],involv:[5,7],isbn:12,isotop:9,issu:1,its:7,j:12,jackson:12,jci:12,john:[6,12],jpsc21:[6,12],jupyt:12,jupyterhub:12,k0:3,k:[1,3,9,12],k_0:3,k_:[3,4],k_n:[3,4],karin:12,khairi:12,kienzl:12,kinet:2,kn:3,knowledg:12,known:[2,4,8],kronm:12,l:[9,10,11,12],la:12,label:[1,3,4,9],lak19:12,lakei:12,languag:[6,12],larg:[1,12],later:[5,7],latter:6,launch:12,lawrenc:12,layer:[3,4,5,7,8],le:12,lead:[0,2,4,5],leak:4,learn:[3,4,7,8,9,11,12],lectromagn:12,lectur:12,left:4,legend:[1,3,4],length:[1,3,4,5,6,8],less:5,let:[0,1,10],licens:3,light:12,like:[2,4,8,10],likelihood:10,limit:[1,2,7,8],line:[1,9,11],linearli:11,link:12,linspac:[1,3,4,8,9,11],lipid:12,liquid:12,list:12,literatur:8,ller:12,ln:[9,11],loadtxt:11,local:9,log:[1,3,4,11,12],logic:[2,10,12],logpdf:9,lond:12,look:[0,1,2,3,6,9,10,11],loss:1,lost:5,lovel:12,low:3,lr99:[2,12],ls:11,lw:11,m:[3,9,11,12],m_:[3,7],m_w:7,m_w_ni:7,m_w_ti:7,made:[2,6,7],magnet:12,magnitud:1,mai:[1,2,6,7,11,12],majkrzak:12,major:[7,11],make:[2,3,6,8,12],manag:12,mani:9,marker:11,mass:6,match:1,materi:[1,3,4,5,7,12],mathcal:[9,10,11],mathemat:12,mathit:[1,3],mathrm:[1,3,7,8,11],matnei:12,matplotlib:[1,3,4,8,9,11],matric:3,matrix:[3,4],matter:[7,12],matyszewska:12,max:[1,3,11],maxima:9,maximilian:12,maximis:[10,11],maximum:[8,9,10,11],mayer:12,mbd:[1,12],mccluskei:12,mead:9,mean:[1,4,7,8,9,11],measur:[0,1,2,5,6,10,11],media:3,member:9,membran:12,menten:2,mention:8,merit:2,meshgrid:9,method:[3,4,12],methodolog:[1,2,4,9,12],metric:[9,11],micel:12,micha:2,might:2,milieux:12,minim:9,minimis:[9,11],minimum:[9,10],minut:12,mkh10:[2,12],modal:9,model:[1,4,7,8,9,10,11,12],modifi:[3,4,12],modul:[4,9],mol:7,molecul:[2,6],molecular:7,monolay:12,more:[0,2,4,6,7,8,9,10,11],most:[3,4,5,9],move:9,movement:12,msfe:[8,12],much:[3,5],multi:9,multivariate_norm:9,must:[2,4,8],mv1:9,mv2:9,mv:9,n:[3,4,7,8,11,12],n_:[3,11],n_a:7,n_c:8,nanostructur:12,natur:[6,8],navig:12,nazaruk:12,ndarrai:[1,3,7,9,11],nearbi:9,necessari:[3,4,9],need:2,neg:9,nelder:9,nelson:12,neutron:[0,1,2,3,5,6,7,9],nevot:4,nevotc80:[4,12],newaxi:[1,3],ni:7,nickel:[4,7],nll:9,nois:1,noisi:1,non:9,none:9,norm:11,normal:[1,3,9,11],normal_wavevector:3,normalis:[1,11],note:[1,2,8,9],notebook:[3,4,7,8,9,11,12],notic:[4,11],now:[0,3,4,8,9,11],np19:[3,12],np:[1,3,4,7,8,9,11],nuanc:5,number:[1,6,7,8,9,11],number_lay:3,number_q:3,numpi:[1,3,4,7,8,9,11],o:11,observ:[1,4,5,11],obtain:[1,4,7],obvious:5,offer:2,olar:12,onc:[9,12],ond:12,one:[8,9,10,11,12],ones:3,ones_lik:4,onli:[1,4,7,8,11],onlin:7,opin:12,opinion:12,optim:[9,11,12],optimis:[8,9],optimum:9,orang:[9,11],order:[5,9],org:[3,4,7,8,9,11,12],other:[8,11],our:[1,2,4,5,6,7,8,9,11],out:[2,10],outsid:10,over:12,overal:[3,9,11],overview:0,oxford:12,p0:3,p1:3,p:[10,11,12],packag:[3,7],page:12,pai:12,pan:[3,4,7,8,9,11,12],panaccion:12,panosc:12,paper:12,par54:[3,12],par:12,param:[1,3,7,11],paramet:[3,4,5,6,7,8,9,10,11,12],parameteris:[6,8,12],pari:12,parker:12,parkin:12,parratt:[3,12],part:[1,11],particl:9,particular:[5,6],particularli:12,patch:4,path:[5,9,12],pattern:[0,5],pdf:[9,11],peak:1,pedulla:12,per:6,perfect:4,perfectli:4,perform:[0,1,11],perpendicular:1,pg:1,phase:[1,2,3,12],phase_factor:3,phi:3,phi_0:3,phi_i:8,phi_n:3,phi_t:3,phil:12,phospholipid:12,phy:12,physic:[1,2,5,6,8,12],physica:12,physrev:12,pi:[1,3,11],pictori:8,piec:[1,4,7],pint:7,place:10,plane:[1,8],pleas:12,plot:[1,3,4,8,9,11,12],plt:[1,3,4,8,9,11],point:11,polar:12,polissag:12,popul:9,popular:2,posit:9,possibl:[1,2,4,5,8,9,11],posterior:10,power:12,prepar:[2,7],prescott:12,present:[1,2,4],press:12,pressur:8,preston:12,previou:[2,6],previous:[3,4,6,8],price:12,print:[7,9],probabl:[10,11],probe:[2,9,10],problem:[1,2,9,12],procedur:12,process:[2,6,7,9,12],prod:3,produc:[1,2,12],product:3,profil:[1,4,5],program:12,project:12,propag:[3,5,12],propos:2,propto:10,py:[4,9],pyplot:[1,3,4,8,9,11],python:[3,12],q2:1,q:[0,1,2,3,4,12],q_:1,q_x:1,q_y:1,qualiti:9,quantifi:9,quelqu:12,question:12,quick:1,r2:1,r:[1,3,4,5,8,12],r_:[3,4],r_abel:3,r_fourier:3,r_microsl:4,r_nevot_croc:4,r_with_rough:4,radiat:[0,1],rai:[1,12],random:9,rang:[1,2,3,4,9,12],rasant:12,rather:[2,6,7],ratio:5,ration:9,rayon:12,rck:12,re:9,reach:[7,9],read:12,reader:12,real:[3,4,5],realli:2,reason:7,recent:[8,12],recogn:12,rectangl:4,recurs:3,red:4,reduc:[6,8],refin:5,reflect:[1,2,4,5,12],reflectometri:[0,2,3,4,5,6,7,8,9,11],refnx:[3,12],refract:[3,5],region:[1,4,8,9],relat:7,relationship:1,relev:[8,12],reli:3,render:1,reparameteris:[5,7,8,11,12],repeat:7,repres:[2,11],reproduc:3,request:12,requir:[6,12],res1:9,res2:9,resolut:[1,2],respect:1,result:[1,2,3,4,5,9],resultant_matrix:3,retriv:1,rev:12,review:12,rewrit:1,rho:[3,7],rho_:7,rho_ni:7,rho_ti:7,rho_to_beta:7,richardson:12,right:4,risat:12,robust:9,room:7,root:9,rout:9,rphysap:12,rsta:12,rstl:12,rule:4,run:12,s0021889811041446:12,s0921:12,s1359:12,s1600576718017016:12,s1600576718017296:12,s:[0,1,7,8,9,10,12],saaka:12,sai:1,same:[4,5,7,11],sampl:[0,1,2,4,7],sanchez:12,sansom:12,satija:12,scale:[1,12],scatter:[0,1,3,4,5,6,8,12],sche:12,sci:12,scienc:[2,12],scipi:[7,9,11],search:12,section:[2,5,6,9],see:[4,5,9],seen:[10,11],select:11,self:8,semi:9,sensit:1,seri:[3,4,5],set:7,set_xlabel:[4,11],set_xlim:4,set_ylabel:[4,11],set_ylim:4,shao:12,shape:[3,9],shortest:4,should:[1,4,6,8,9,11,12],show:[1,2,3,4,5,7,8,9,11,12],shown:[1,2,3,4,5,8,9,11],si:1,sigma2:4,sigma3:4,sigma5:4,sigma7:4,sigma:[4,11],sigma_:4,sigma_n:11,silic:12,silicon:[1,4,7],similar:[2,3],simpl:[1,2,5,6,7,8,9,10,12],simpli:9,simul:[2,4,5,6,7],sin:8,singl:[8,11],sio_2:1,sit:[8,11],siv11:[1,12],sivia:[1,10,12],sj06:[10,12],skill:12,skip:12,sko19:12,skoda:12,slab:[4,6,8,12],sld_with_rough:4,smooth:[1,4],so:[11,12],soc:12,soft:12,softwar:12,solid:12,solubl:8,solut:9,solv:12,solvat:8,solvent:[8,12],some:[0,1,2,4,5,8,9,10,11,12],someth:[0,2],son:12,sourc:12,sp97:[9,12],space:[0,9,12],spallat:12,speak:8,specif:[6,8],spectra:2,specular:12,spintron:12,springer:12,sqrt:3,squar:[1,3],sratifi:12,staff:8,standard:11,start:[9,10],stat:[9,11],state:10,step:[4,9,10],stephen:12,still:[4,7],storn:12,straight_lin:11,straightforward:6,strand:8,stratifi:3,structur:[1,2,6,7,12],studi:[1,2,8,12],subject:12,subplot:[4,11],suggest:[10,12],sum:[1,3,7],sum_:[7,8,11],summat:11,superphas:3,sur:12,sure:12,surfac:[1,3,7,12],surfact:12,swarm:9,synthesi:2,system:[1,2,4,5,6,7,8,9,12],t:[9,12],t_t:8,tackl:2,tail:8,take:[0,2,9,10,12],taken:[3,5],tan80:[8,12],tanford:[8,12],techniqu:[6,12],temperatur:7,tend:1,term:[5,7,8,11],textquotesingl:12,than:[1,4,7,9],thank:12,thei:[9,12],them:[4,11],theorem:10,theori:[1,12],therefor:[2,4,6,7,9,10],theta:[8,9,10,11],thi:[0,1,2,3,4,5,6,7,8,9,10,11,12],thick:[1,3,4,5,8],thin:4,thing:2,think:6,those:10,thought:1,three:[2,7],through:[3,4,5],thumb:4,tight_layout:11,time:[0,1,4,7,12],tiqu:12,titanium:7,tkh:[9,12],togeth:3,tool:[1,2,6],top4:9,top:1,toperverg:12,total:12,touch:12,toward:[1,9,12],tradit:[7,8,12],tran:12,transform:[2,3,5,12],translat:6,transmitt:3,treec:12,trigonometri:8,tude:12,turn:9,tutori:[10,12],two:[2,3,4,5,6,8,9],txt:11,typic:[2,4,5,6,7,8,9,11],tz07:12,u:7,uantum:12,umbrellaid:12,uncertainti:11,unclear:7,under:[1,3,8],underli:[2,11],understand:[2,3,5,6,10,12],unintuit:6,uniqu:9,unit:0,unitregistri:7,univers:12,unlik:8,unphys:[1,4],until:7,up:[9,12],uphil:9,url:12,us:[2,3,4,6,7,8,9,10,11,12],useless:1,user:[1,12],utilis:1,valu:[1,3,7,8,9,10,11],vari:[7,9],variabl:7,varieti:9,vector:3,veri:[4,8,9],verr:12,version:1,via:[3,4,7,8,9,11],vibrat:2,video:0,visit:12,visualis:[1,4],vot:12,w:[7,12],wa:[1,2,5,10,12],wai:[2,8],wait:12,want:12,watch:0,water:[8,12],wave:[3,5],wavevector:[1,3],wc19:12,we:[0,1,2,4,5,6,7,8,10,11,12],weight:7,welbourn:12,well:2,were:10,what:12,when:[3,5,8,9,10,11],where:[1,2,3,4,5,7,8,9,10,11],which:[0,1,3,4,7,8,9,10,11],width:4,wiesendang:12,wilei:12,within:10,without:[1,2,4],word:2,work:[4,6,12],workflow:2,wormington:12,would:[2,4,5,8,10],wpmb99:[9,12],written:[1,11],wwe:8,x:[1,9,11,12],x_n:11,xlabel:[1,3,4,8,9],xy:8,y:[9,10,11,12],y_fit:11,y_n:11,ylabel:[1,3,4,8,9],you:[1,2,10,11,12],your:[8,12],yourself:12,yscale:[1,3,4],yy:11,z:[1,3,4,5],zabel:12,zero:3,zeros_lik:[1,3],zhou:12,zorder:11,zq:1,ztbt07:12},titles:["An introduction to Fourier transforms","Fourier transforms for reflectometry analysis","What is model-dependent analysis?","How we calculate the reflectivity of a slab model","Roughness and microslicing","The \u201cslab model\u201d","A case for model reparameterisation","NiTi multilayer example","Phospholipid monolayer example","How do we maximise the likelihood?","How to leverage our prior knowledge?","What is the likelihood?","Introduction to neutron reflectometry fitting"],titleterms:{"case":6,"do":9,A:[6,10],The:[1,5],algorithm:3,an:[0,1],analysi:[1,2],angl:8,approxim:1,area:8,bibliographi:12,born:1,calcul:3,chain:8,densiti:7,depend:2,exampl:[1,7,8],fit:12,fourier:[0,1],gradient:9,how:[3,9,10],interfac:1,interfaci:4,introduct:[0,12],knowledg:10,layer:1,length:7,leverag:10,likelihood:[9,11],mass:7,maximis:9,method:9,microsl:4,model:[2,3,5,6],molecul:8,monolay:8,multilay:7,neutron:12,niti:7,our:10,oxid:1,per:8,phospholipid:8,prior:10,problem:4,reflect:3,reflectometri:[1,12],reparameteris:6,rough:4,scatter:7,singl:1,slab:[3,5],specular:1,stochast:9,tilt:8,transform:[0,1],uniform:10,us:1,we:[3,9],what:[0,2,11]}})

diff --git a/1_the_fourier_transform/fourier_transforms_for_reflectometry_analysis.html b/1_the_fourier_transform/fourier_transforms_for_reflectometry_analysis.html
@@ -256,7 +256,6 @@ const thebe_selector_output = ".output, .cell_output"
                 
   <div class="tex2jax_ignore mathjax_ignore section" id="fourier-transforms-for-reflectometry-analysis">
 <h1>Fourier transforms for reflectometry analysis<a class="headerlink" href="#fourier-transforms-for-reflectometry-analysis" title="Permalink to this headline">¶</a></h1>
-<p><a class="reference external" href="https://pan-learning.org/moodle/course/view.php?id=96"><strong>Interact with this notebook via pan-learning.org</strong></a></p>
 <div class="section" id="specular-reflectometry">
 <h2>Specular reflectometry<a class="headerlink" href="#specular-reflectometry" title="Permalink to this headline">¶</a></h2>
 <p>In specular neutron reflectometry, we accept that <span class="math notranslate nohighlight">\(q_x = 0\)</span> and <span class="math notranslate nohighlight">\(q_y = 0\)</span>, which is to say that the neutrons are scattered <strong>only</strong> in the surface normal (perpendicular to the plane of the surface), denoted <span class="math notranslate nohighlight">\(z\)</span>.

diff --git a/5_fitting_processes_and_problems/how_do_we_maximise_the_likelihood.html b/5_fitting_processes_and_problems/how_do_we_maximise_the_likelihood.html
@@ -390,7 +390,7 @@ This is necessary as, as we can see from the overall maximum, the differential e
 </div>
 <div class="cell_output docutils container">
 <img alt="../_images/how_do_we_maximise_the_likelihood_6_0.png" src="../_images/how_do_we_maximise_the_likelihood_6_0.png" />
-<div class="output stream highlight-myst-ansi notranslate"><div class="highlight"><pre><span></span>Overall Maximum: [7.45667815 1.47913284]
+<div class="output stream highlight-myst-ansi notranslate"><div class="highlight"><pre><span></span>Overall Maximum: [7.37833167 1.53647586]
 </pre></div>
 </div>
 </div>
